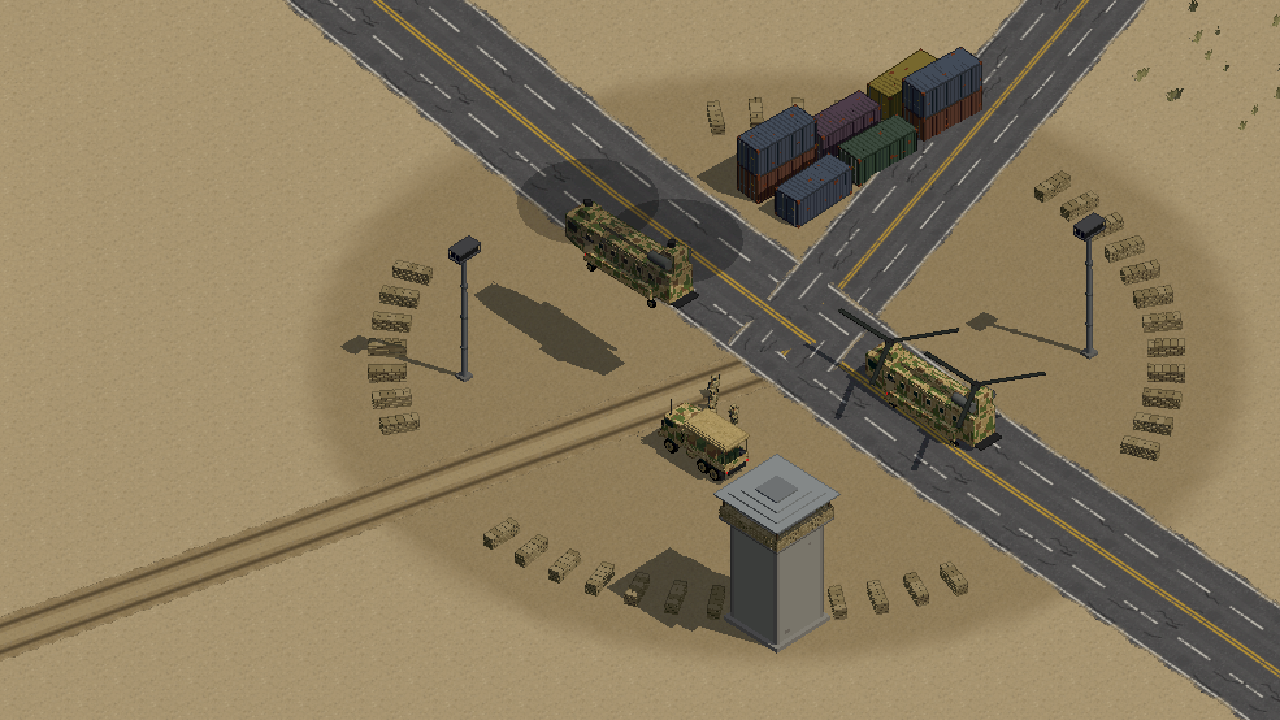
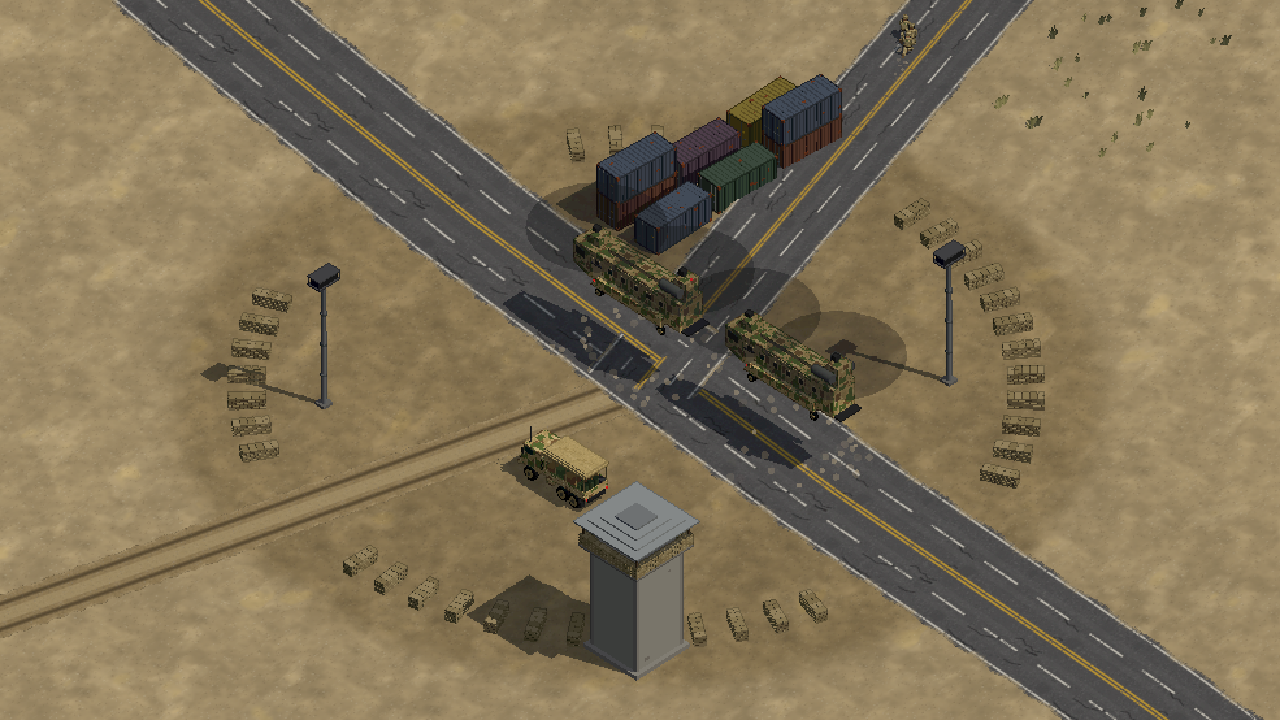
README screenshots retaken with the new ground textures
Seven action shots again, now showing the dappled grass and drifting sand: Peninsula's landing and
a dusk fight behind the village, Palm Valley's Bridge, the Friendship Bridge on Narva, burning APC
wrecks in Desert Crossing's village, Chinooks lifting off, and the HUD on Narva's railway bridge.

diff --git a/README.md b/README.md
@@ -15,18 +15,18 @@ pixels chunkier while the camera rotates freely. No build step.
 <table>
 <tr>
 <td width="50%"><img src="docs/screenshots/peninsula-landing.webp" alt="Three grey landing craft beached side by side on West Beach in evening light; soldiers come down a ramp while an APC and a supply truck drive up the sand"><br><sub><b>Peninsula.</b> The first wave beaches at West Beach at dusk; the APC and supply truck are already heading up the sand.</sub></td>
-<td width="50%"><img src="docs/screenshots/peninsula-village.webp" alt="Whitewashed cottages and a church on a green slope, with tracer fire and rocket trails crossing between squads"><br><sub><b>Peninsula.</b> The attackers fight up through the village behind the beach.</sub></td>
+<td width="50%"><img src="docs/screenshots/peninsula-fight.webp" alt="Squads trading fire in dusky fields beside a road and a cottage, rocket trails, tracers and a burst between them"><br><sub><b>Peninsula.</b> Squads clash in the fields behind the village at dusk.</sub></td>
 </tr>
 <tr>
 <td><img src="docs/screenshots/palm-valley-bridge.webp" alt="A desert road crossing a river bridge, a row of tank traps across it and squads fighting on either side, an explosion near a container"><br><sub><b>Palm Valley.</b> The fight for the Bridge, behind a row of tank traps.</sub></td>
-<td><img src="docs/screenshots/narva-rail-bridge.webp" alt="Soldiers crossing a blue steel truss railway bridge over a river, an APC on the far bank"><br><sub><b>Narva.</b> Infantry cross the truss railway bridge under fire.</sub></td>
+<td><img src="docs/screenshots/narva-friendship-bridge.webp" alt="A firefight where a road bridge meets the river bank in green meadow, a fire burning beside the road"><br><sub><b>Narva.</b> A fight for the end of the Friendship Bridge.</sub></td>
 </tr>
 <tr>
-<td><img src="docs/screenshots/desert-airfield.webp" alt="Squads trading fire on a concrete airfield apron beside fuel tanks and painted helipads, a rocket bursting"><br><sub><b>Desert Crossing.</b> A firefight on the airfield apron.</sub></td>
+<td><img src="docs/screenshots/desert-village.webp" alt="Two APC wrecks burning and smoking on a road through a desert village of flat-roofed houses, squads fighting between the houses"><br><sub><b>Desert Crossing.</b> APC wrecks burn on the road through the village.</sub></td>
 <td><img src="docs/screenshots/air-assault.webp" alt="Two tandem-rotor transport helicopters lifting off inside a sandbagged main base with containers, floodlights and a watchtower"><br><sub><b>Air Assault.</b> Chinooks lift off from the main base.</sub></td>
 </tr>
 <tr>
-<td colspan="2"><img src="docs/screenshots/hud.webp" alt="The match screen on Narva: the places bar and tickets along the top, reinforcements at the right, the unit strip of squad cards and the minimap along the bottom"><br><sub><b>The match HUD</b> (Narva, fog of war on): the places and tickets along the top, reinforcements at the right, the unit strip and the minimap below.</sub></td>
+<td colspan="2"><img src="docs/screenshots/hud.webp" alt="The match screen on Narva: an APC and squads on the blue truss railway bridge, the places bar and tickets along the top, reinforcements at the right, the unit strip and the minimap along the bottom"><br><sub><b>The match HUD</b> (Narva's railway bridge, fog of war on): the places and tickets along the top, reinforcements at the right, the unit strip and the minimap below.</sub></td>
 </tr>
 </table>
 
